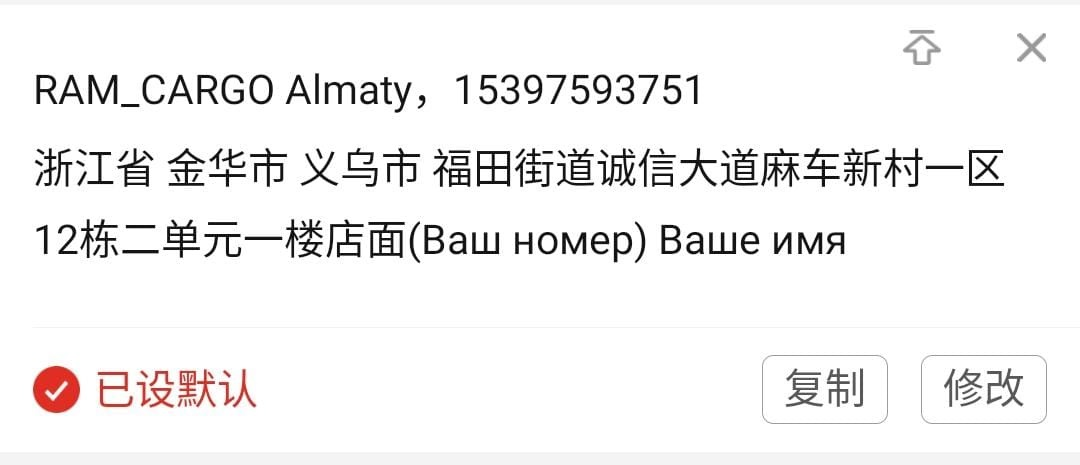
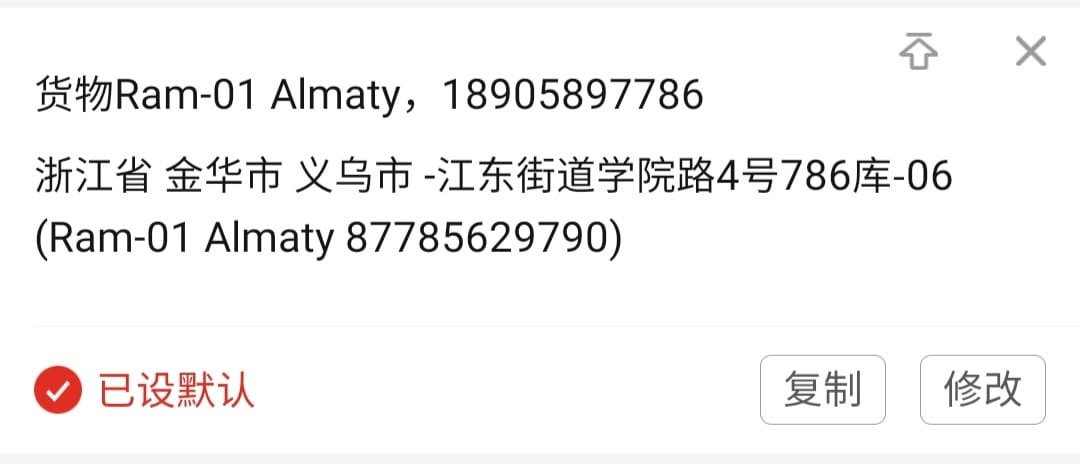
New address

diff --git a/resources/views/layouts/navigation.blade.php b/resources/views/layouts/navigation.blade.php
@@ -58,7 +58,7 @@
 
                         <div class="bg-[#fab4b4] p-2 mt-4 mb-4">
                             <p><span>Образец</span></p>
-                            <img src="{{asset('images/newchina.jpg')}}" alt="China">
+                            <img src="{{asset('images/china.jpg')}}" alt="China">
                         </div>
                         <hr class="h-px mb-4 bg-gray-200 border-0">
                     <div class="grid grid-cols-2 mt-4 gap-4">
